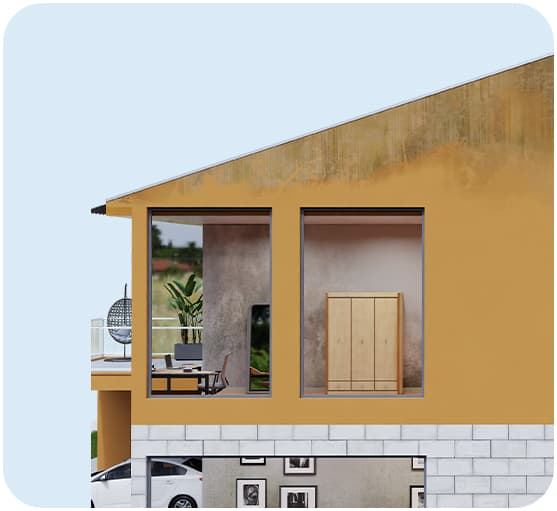
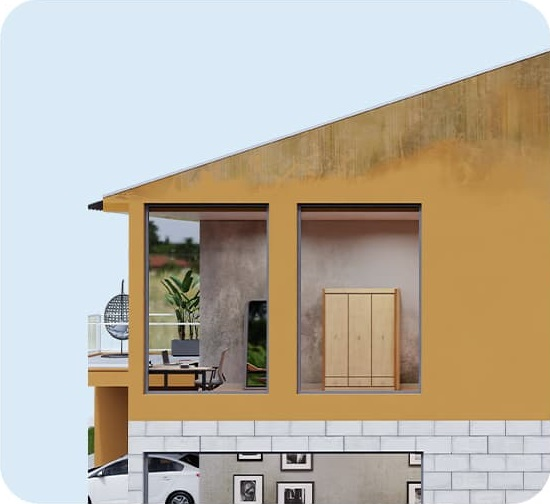
Construção da segunda seção do site e ajustes no responsivo do header

diff --git a/index.html b/index.html
@@ -10,6 +10,12 @@
     <title>Teste Woolly Front-end Jr.</title>
 
     <link rel="icon" type="image/png" href="" />
+    <link rel="preconnect" href="https://fonts.googleapis.com" />
+    <link rel="preconnect" href="https://fonts.gstatic.com" crossorigin />
+    <link
+      href="https://fonts.googleapis.com/css2?family=Poppins:wght@400;500;600;700&display=swap"
+      rel="stylesheet"
+    />
 
     <link rel="stylesheet" href="assets/css/styles.css" />
     <script src="assets/js/main.js" defer></script>
@@ -27,5 +33,20 @@
         </div>
       </div>
     </header>
+    <section class="primeira__secao">
+      <div class="container__secao">
+        <img
+          src="./assets/images/Camera_lateral_desk_001.jpg"
+          alt="Imagem da lateral de uma casa"
+        />
+        <p>
+          Cras sed <strong>neque ultrices</strong>, tincidunt lacus sit amet,
+          aliquet libero. Pellentesque malesuada
+          <strong>neque vel nisl</strong> aliquet, eget sodales ipsum iaculis.
+          Curabitur efficitur purus sed turpis placerat, sit amet laoreet turpis
+          tincidunt.
+        </p>
+      </div>
+    </section>
   </body>
 </html>

diff --git a/assets/css/primeira-secao.css b/assets/css/primeira-secao.css
@@ -1,0 +1,55 @@
+.primeira__secao {
+  background-color: var(--bg-c12);
+}
+
+.container__secao {
+  display: flex;
+  justify-content: center;
+  padding: 10rem 0;
+}
+
+.container__secao img {
+  width: 509px;
+  border-radius: 40px;
+  box-shadow: -20px 20px 30px 0px rgba(0, 0, 0, 0.5);
+}
+.container__secao p {
+  padding: 70px 40px;
+  max-width: 600px;
+  color: #59595b;
+  font-size: 24px;
+}
+
+@media (max-width: 1024px) {
+  .container__secao {
+    align-items: center;
+    flex-direction: column-reverse;
+    padding: 3rem 0;
+  }
+}
+
+@media (max-width: 768px) {
+  .primeira__secao {
+    background-color: var(--bg-c6);
+  }
+  .container__secao {
+    align-items: center;
+    flex-direction: column-reverse;
+    padding: 1rem 0;
+  }
+  .container__secao img {
+    box-shadow: -10px 10px 30px 0px rgba(0, 0, 0, 0.3);
+  }
+}
+
+@media (max-width: 480px) {
+  .container__secao p {
+    padding: 0px 40px 30px;
+    max-width: 600px;
+    color: #59595b;
+    font-size: 16px;
+  }
+  .container__secao img {
+    width: 400px;
+  }
+}

diff --git a/assets/css/header.css b/assets/css/header.css
@@ -2,13 +2,13 @@
   background-image: url(../images/plano-de-fundo-banner.jpg);
   background-size: contain;
   background-repeat: no-repeat;
-  height: 1140px;
+  height: 1042px;
 }
 
 .banner__title {
   background-color: rgb(255, 235, 0);
   position: absolute;
-  left: 255px;
+  left: 215px;
   top: -40px;
   width: 782px;
   height: 850px;
@@ -48,6 +48,9 @@
 }
 
 @media (max-width: 1366px) {
+  .container__banner {
+    height: 742px;
+  }
   .banner__title {
     left: 215px;
     width: 500px;
@@ -61,6 +64,7 @@
 @media (max-width: 1024px) {
   .container__banner {
     width: 100%;
+    height: 556px;
   }
   .banner__title {
     background-color: rgb(255, 235, 0);
@@ -91,6 +95,7 @@
 @media (max-width: 480px) {
   .container__banner {
     background-image: none;
+    height: 500px;
   }
   .banner__title {
     width: 100%;

diff --git a/assets/css/styles.css b/assets/css/styles.css
@@ -1,2 +1,4 @@
 @import url(reset.css);
+@import url(global.css);
 @import url(header.css);
+@import url(primeira-secao.css);

diff --git a/assets/css/global.css b/assets/css/global.css
@@ -1,0 +1,7 @@
+:root {
+  --bg-c12: #ffeb00;
+  --bg-c6: #ffffff;
+}
+body {
+  font-family: "Poppins", sans-serif;
+}
